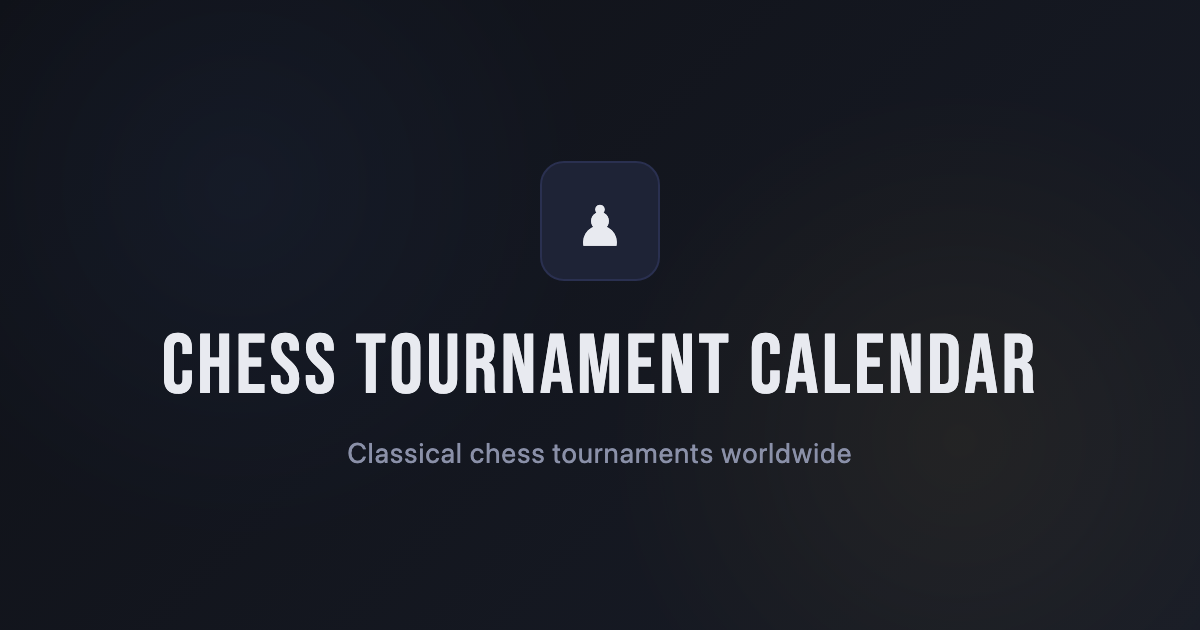
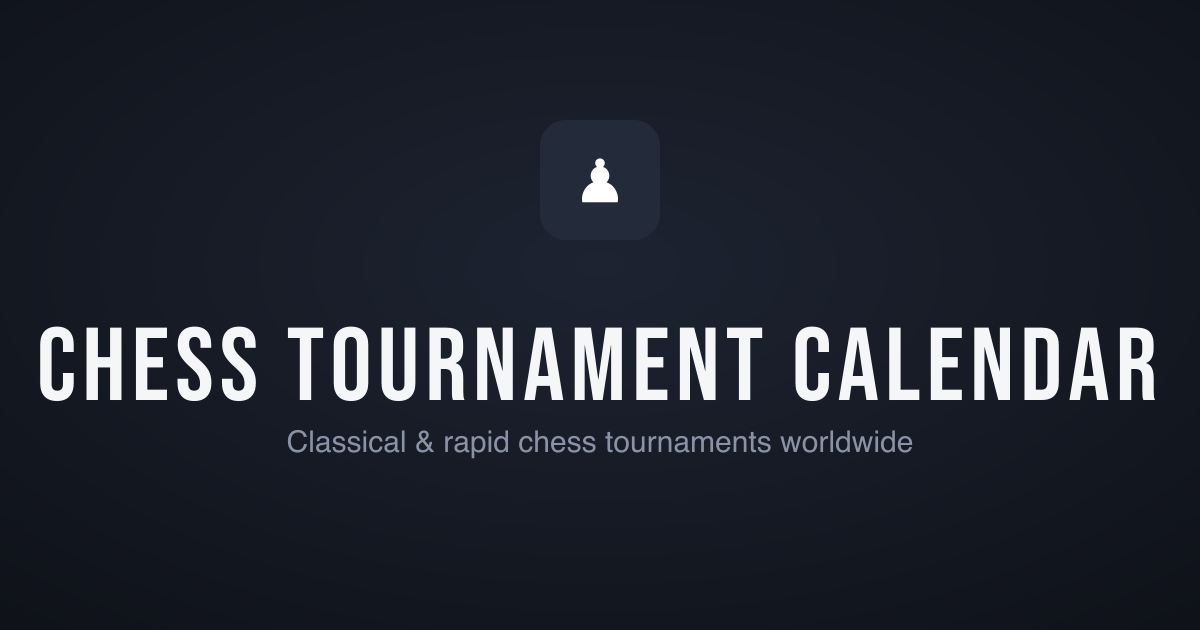
Refresh OG image, IndexNow on deploy, 6h scrape, sort tweaks
- og-image: update subtitle to "Classical & rapid..." and re-render the
  wordmark as vector paths (librsvg ignores @user); add a committed
  generator script so the asset is reproducible.
- IndexNow: replace the dead Google sitemap ping with a real submission
  on deploy -- homepages plus newly-added tournament pages (diffed from
  the prior commit), run post-deploy with HTTP status logged for
  per-deploy verification.
- Scrape cadence 12h -> 6h to comfortably beat the advertised window
  despite GitHub's scheduling lag.
- Tournament list: suppress month separators when sorting by player
  count (they only make sense in chronological order).

diff --git a/src/scripts/tournamentList.ts b/src/scripts/tournamentList.ts
@@ -222,14 +222,20 @@ export function initTournamentList(cfg: ListConfig) {
   function renderMore() {
     const filtered = getFilteredSorted();
     const next = filtered.slice(renderedCount, renderedCount + PAGE_SIZE);
+    // Month separators only make sense while the list is in chronological order.
+    // When sorting by player count the rows aren't grouped by month, so the
+    // separators become noise — suppress them in that view.
+    const showSeparators = sortKey !== 'players';
     const html = next
       .map((t: any) => {
-        const d = new Date(t.startDate + 'T00:00:00');
-        const monthKey = `${d.getFullYear()}-${d.getMonth()}`;
         let sep = '';
-        if (monthKey !== lastRenderedMonth) {
-          sep = monthSeparatorHTML(t);
-          lastRenderedMonth = monthKey;
+        if (showSeparators) {
+          const d = new Date(t.startDate + 'T00:00:00');
+          const monthKey = `${d.getFullYear()}-${d.getMonth()}`;
+          if (monthKey !== lastRenderedMonth) {
+            sep = monthSeparatorHTML(t);
+            lastRenderedMonth = monthKey;
+          }
         }
         return sep + rowHTML(t);
       })